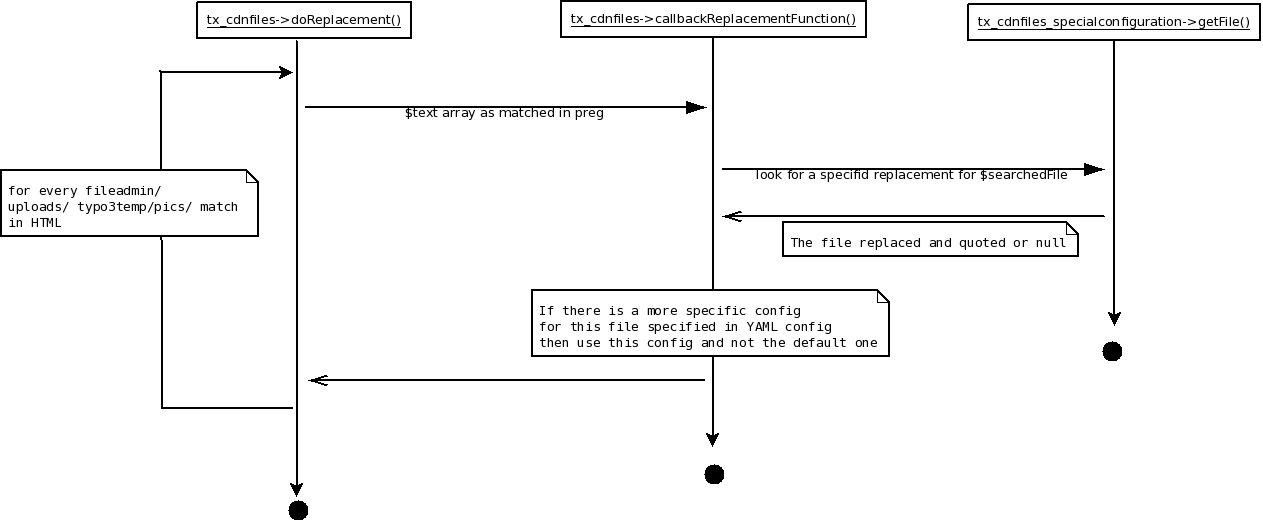
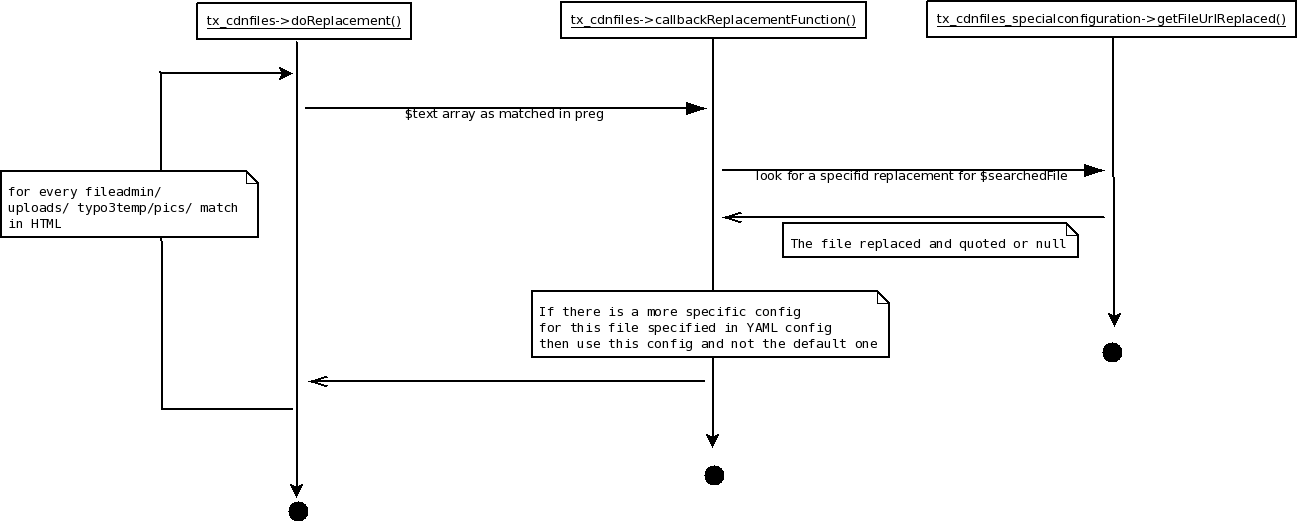
Refactoring round one. Code is more readable and extensible via interfaces Added new TODOs at code comments

diff --git a/class.tx_cdnfiles.php b/class.tx_cdnfiles.php
@@ -11,7 +11,7 @@ require_once t3lib_extMgm::extPath('cdnfiles').'class.tx_cdnfiles_specialconfigu
 class tx_cdnfiles {
 
     /** @var array holds the extension configuration */
-    private $extConfig = array();
+    private $extensionConfiguration = array();
 
     /** @var string with current replacement directory, cause
      * I dont know how to pass more arguments to the callback function and i dont want to call pcre functions twice
@@ -19,65 +19,68 @@ class tx_cdnfiles {
     private $currentDirectory ='';
 
     /**
-     * @var tx_cdnfiles_specialconfiguration this object reads the YAML configuration file and tests each file against it to look for any special configuration
+     * @var tx_cdnfiles_specialconfiguration_interface this object reads the YAML configuration file and tests each file against it to look for any special configuration
      */
     private $specialConfigurationObj = null;
 
     public function __construct(){
+        // TODO: override extension configuration from extension manager with template TSConfig if exists
         // global extension configuration is read the typo3conf/localconf.php and managed with the TYPO3 extension manager
-        $this->extConfig = unserialize(
+        $this->extensionConfiguration = unserialize(
             $GLOBALS['TYPO3_CONF_VARS']['EXT']['extConf']['cdnfiles']
         );
         // file with absolute path of the YAML file with advanced replacement configuration
-        $this->extConfig['advancedconfig_file'] = PATH_site.$this->extConfig['advancedconfig_file'];
+        $this->extensionConfiguration['advancedconfig_file'] = PATH_site.$this->extensionConfiguration['advancedconfig_file'];
 
+        // TODO: make this object plugable, which paramaters/initialization should it use
         // the object manager with advanced configuration. this object is responsible to read the YAML file and giving a original file
         // it returns an URL for this file if there is anyone
-        $this->specialConfigurationObj = t3lib_div::makeInstance("tx_cdnfiles_specialconfiguration",$this->extConfig['advancedconfig_file']);
+        $this->specialConfigurationObj = t3lib_div::makeInstance("tx_cdnfiles_specialconfiguration",$this->extensionConfiguration['advancedconfig_file']);
     }
 
     /**
      * Responsible of replacement inside the hook ['tslib/class.tslib_fe.php']
      * it takes a HTML string and returns the string with URLS replaced
      * 
-     * @param string $content HTML of the page, file references should be in quotes
+     * @param string $htmlContent HTML of the page, file references should be in quotes
      * @return string HTML with the replaced content
      */
-    public function doReplacement($content){
+    public function doReplacement($htmlContent){
 
         /**
          * Do I have to work with, fileadmin/ uploads/ typo3temp/pics?
          * each one could have its own config
          */
 
+        // TODO: avoid repeated code but it could lead to a less readable code
         // fileadmin/
-        if ($this->extConfig['replace_fileadmin_directory']){
+        if ($this->extensionConfiguration['replace_fileadmin_directory']){
             // $this->currentDirectory is used inside 'callbackReplacementFunction'
             $this->currentDirectory='fileadmin';
             // pattern to match the fileadmin directory
-            $pattern = $this->extConfig['fileadmin_regexp'];
+            $pattern = $this->extensionConfiguration['fileadmin_regexp'];
             //always testing case insensitive
             $pattern = '|"'.$pattern.'"|i';
-            $content = preg_replace_callback($pattern, array( &$this, 'callbackReplacementFunction'), $content);
+            $htmlContent = preg_replace_callback($pattern, array( &$this, 'callbackReplacementFunction'), $htmlContent);
         }
 
         // uploads/
-        if ($this->extConfig['replace_uploads_directory']){
+        if ($this->extensionConfiguration['replace_uploads_directory']){
             $this->currentDirectory='uploads';
-            $pattern = $this->extConfig['uploads_regexp'];
+            $pattern = $this->extensionConfiguration['uploads_regexp'];
             $pattern = '|"'.$pattern.'"|i';
-            $content = preg_replace_callback($pattern, array( &$this, 'callbackReplacementFunction'), $content);
+            $htmlContent = preg_replace_callback($pattern, array( &$this, 'callbackReplacementFunction'), $htmlContent);
         }
 
         // typo3temp/pics/
-        if ($this->extConfig['replace_typo3temppics_directory']){
+        if ($this->extensionConfiguration['replace_typo3temppics_directory']){
             $this->currentDirectory='typo3temppics';
-            $pattern = $this->extConfig['typo3temppics_regexp'];
+            $pattern = $this->extensionConfiguration['typo3temppics_regexp'];
             $pattern = '|"'.$pattern.'"|i';
-            $content = preg_replace_callback($pattern, array( &$this, 'callbackReplacementFunction'), $content);
+            $htmlContent = preg_replace_callback($pattern, array( &$this, 'callbackReplacementFunction'), $htmlContent);
         }
         
-        return $content;
+        return $htmlContent;
 
     }
 
@@ -85,65 +88,72 @@ class tx_cdnfiles {
      * This function is triggered for every PCRE match and it proccess the filereferences
      * Reponsible of replacement for just one file URL
      *
-     * @param array $text as matched in a PCRE regular expression
+     * @param array $matchedText as matched in a PCRE regular expression
      * @return string The file reference proccessed in quotes
      */
-    private function callbackReplacementFunction($text){
-        
+    private function callbackReplacementFunction($matchedText){
+            //TODO: add hook preReplacement
+
             // If you have a regular expression with () then use the first () variable
-            if(isset($text[1])){
-                $searchedFile = $text[1];
+            if(isset($matchedText[1])){
+                $searchedFile = $matchedText[1];
             }else{
-                $searchedFile = $text[0];
+                $searchedFile = $matchedText[0];
             }
 
+            // TODO: add hook
             //Look for a special configuration for this file
-            $proccessedFile = $this->specialConfigurationObj->getFile($searchedFile);
+            $fileWithUrlReplaced = $this->specialConfigurationObj->getFileUrlReplaced($searchedFile);
         
             /**
-             * If !$proccessedFile is because there isnt any special configuration for that file
+             * If !$fileWithUrlReplaced is because there isnt any special configuration for that file
+             * so going to default config at directory level
              */
-            if (!$proccessedFile){
+            if (!$fileWithUrlReplaced){
                 //If no have any special configuration just apply the common config
                 /// because I have $this->currentDirectory, I dont have to use a regular expression again to know in that directory i'm working
                 switch($this->currentDirectory){
                     case 'fileadmin':                       
-                        $proccessedFile = $this->extConfig['fileadmin_urlprefix'] . $searchedFile;
+                        $fileWithUrlReplaced = $this->extensionConfiguration['fileadmin_urlprefix'] . $searchedFile;
                         break;
                     case 'uploads':                       
-                        $proccessedFile = $this->extConfig['uploads_urlprefix'] . $searchedFile;
+                        $fileWithUrlReplaced = $this->extensionConfiguration['uploads_urlprefix'] . $searchedFile;
                         break;
                     case 'typo3temppics':                     
-                        $proccessedFile = $this->extConfig['typo3temppics_urlprefix'] . $searchedFile;
+                        $fileWithUrlReplaced = $this->extensionConfiguration['typo3temppics_urlprefix'] . $searchedFile;
                         break;
 
                 }
             }
 
             // at least you should get your original file, but you should never go into this configuration
-            if(!$proccessedFile){
-                $proccessedFile = $searchedFile;
+            if(!$fileWithUrlReplaced){
+                $fileWithUrlReplaced = $searchedFile;
             }
 
             /**
-             * $proccessedFile != $searchedFile is because you did something with the file
+             * $fileWithUrlReplaced != $searchedFile is because you did something with the file: you have replaced the file with a special config
              */
-            if($proccessedFile != $searchedFile){
+            // TODO: should I remove that directories in the URL even if if I have a special config for this file?
+            // TODO: testcase fileadmin/somefile.js replaced with http://server.mycdn.com/fileadmin/something.js
+            if($fileWithUrlReplaced != $searchedFile){
                 //should I remove the fileadmin/ uploads/ or typo3temp/ directory
-                if($this->extConfig['remove_fileadmin_directory']){
-                                $proccessedFile = str_replace('/fileadmin/', '/', $proccessedFile);
+                if($this->extensionConfiguration['remove_fileadmin_directory']){
+                                $fileWithUrlReplaced = str_replace('/fileadmin/', '/', $fileWithUrlReplaced);
                 }
-                if($this->extConfig['remove_uploads_directory']){
-                                $proccessedFile = str_replace('/uploads/', '/', $proccessedFile);
+                if($this->extensionConfiguration['remove_uploads_directory']){
+                                $fileWithUrlReplaced = str_replace('/uploads/', '/', $fileWithUrlReplaced);
                 }
-                if($this->extConfig['remove_typo3temp_directory']){
-                                $proccessedFile = str_replace('/typo3temp/', '/', $proccessedFile);
+                if($this->extensionConfiguration['remove_typo3temp_directory']){
+                                $fileWithUrlReplaced = str_replace('/typo3temp/', '/', $fileWithUrlReplaced);
                 }
 
             }
+            //TODO: add hook postReplacement
 
+            // TODO: ensure that the file is always returned with quotes
             //dont forget the quotes
-            return '"'.$proccessedFile.'"';
+            return '"'.$fileWithUrlReplaced.'"';
 
     }
     

diff --git a/class.tx_cdnfiles_specialconfiguration.php b/class.tx_cdnfiles_specialconfiguration.php
@@ -3,7 +3,7 @@
  * To change this template, choose Tools | Templates
  * and open the template in the editor.
  */
-require_once(PATH_t3lib . 'interfaces/interface.t3lib_singleton.php');
+require_once t3lib_extMgm::extPath('cdnfiles').'class.tx_cdnfiles_specialconfiguration_interface.php';
 require_once t3lib_extMgm::extPath('cdnfiles').'lib/sfYaml.php';
 
 /**
@@ -15,7 +15,7 @@ require_once t3lib_extMgm::extPath('cdnfiles').'lib/sfYaml.php';
  *
  * @author Fernando Arconada fernando.arconada@gmail.com
  */
-class tx_cdnfiles_specialconfiguration {
+class tx_cdnfiles_specialconfiguration implements tx_cdnfiles_specialconfiguration_interface {
 
     /**
      *
@@ -24,43 +24,59 @@ class tx_cdnfiles_specialconfiguration {
     private $config = array();
 
     /**
-     *
-     * @param string $configFile absulet path of the YAML file
+     * @param string $configFilePath absulet path of the YAML file
      */
-    public function __construct($configFile){
-        try{
-            $this->config = sfYaml::load($configFile);
-        }catch(InvalidArgumentException $e){
-            t3lib_div::devLog($e->getMessage(),"cdnfiles");
-        }
-
+    public function __construct($configFilePath){
+        $this->config = $this->loadYamlAsArray($configFilePath);
     }
 
     /**
+     * @param  $configFilePath string sets the configuration file in YAML format and loads it into the config
+     * @return void
+     */
+    public function setConfigFile($configFilePath) {
+        $this->config = $this->loadYamlAsArray($configFilePath);
+    }
+
+    /**
+     * converts a YAML file into array
+     * @param  $yamlFilePath
+     * @return array
+     */
+    private function loadYamlAsArray($yamlFilePath) {
+        $arrayResult = array();
+        try{
+            $arrayResult = sfYaml::load($yamlFilePath);
+        }catch(InvalidArgumentException $e){
+            t3lib_div::devLog($e->getMessage(),"cdnfiles");
+        }
+        return $arrayResult;
+    }
+    /**
      * Do I have any special config for this file?
-     * @param string $originalFile
+     * @param string $originalFileToBeReplaced
      * @return string|null if have a special config i should return the file refernce
      *  proccessed, If the file refernce proccessed is equal as filerefernce is
      *  because i have written in my config which that file should be proccessed
      *  the function returns null if has nothing about that file
      */
-    public function getFile($originalFile){
+    public function getFileUrlReplaced($originalFileToBeReplaced){
         //lets look in the files section
         /**
          * Files section has priority over patterns section because
          * patterns are more general than files
          * The order is important cause it works in short-circuit mode
          */
-        foreach ($this->config['files'] as $file => $fileConfig){
+        foreach ($this->config['files'] as $file => $fileReplacementConfiguration){
             //always testing case insensitive
-            if(preg_match("|".$file."|i", $originalFile)){
+            if(preg_match("|".$file."|i", $originalFileToBeReplaced)){
                 //There is a config for this file
-                if($fileConfig['replace']){
+                if($fileReplacementConfiguration['replace']){
                     //then i should have an URL
-                    return $fileConfig['cdn_url'];
+                    return $fileReplacementConfiguration['cdn_url'];
                 }else{
                     // please dont touch my file it shouldnt be replaced
-                    return $originalFile;
+                    return $originalFileToBeReplaced;
                 }
 
             }
@@ -68,12 +84,12 @@ class tx_cdnfiles_specialconfiguration {
 
 
         //lets look in the patterns section
-        foreach ($this->config['patterns'] as $pattern => $patternConfig){
-            if(preg_match("|".$pattern."|i", $originalFile)){
-                if($patternConfig['replace']){
-                    return $patternConfig['cdn_prefix'].$originalFile;
+        foreach ($this->config['patterns'] as $pattern => $patternReplacementConfiguration){
+            if(preg_match("|".$pattern."|i", $originalFileToBeReplaced)){
+                if($patternReplacementConfiguration['replace']){
+                    return $patternReplacementConfiguration['cdn_prefix'].$originalFileToBeReplaced;
                 }else{
-                    return $originalFile;
+                    return $originalFileToBeReplaced;
                 }
 
             }

diff --git a/tests/tx_cdnfiles_cdnfiles_testcase.php b/tests/tx_cdnfiles_cdnfiles_testcase.php
@@ -17,7 +17,7 @@ files:
     replace: false
  */
 /**
- * [extConfig:tx_cdnfiles:private] => Array
+ * [extensionConfiguration:tx_cdnfiles:private] => Array
         (
             [replace_fileadmin_directory] => 1
             [fileadmin_urlprefix] => http://d3n13n30hxhvxs.cloudfront.net/
@@ -48,7 +48,7 @@ class tx_cdnfiles_cdnfiles_testcase extends tx_phpunit_testcase {
         $this->cdnfilesObj = t3lib_div::makeInstance('tx_cdnfiles');
 
         //configure the object accessing private properties
-        $property = new ReflectionProperty($this->cdnfilesObj,'extConfig');
+        $property = new ReflectionProperty($this->cdnfilesObj,'extensionConfiguration');
         $property->setAccessible(TRUE);
         $config['replace_fileadmin_directory'] = '1';
         $config['fileadmin_urlprefix'] = 'http://d3n13n30hxhvxs.cloudfront.net/';
@@ -102,7 +102,7 @@ class tx_cdnfiles_cdnfiles_testcase extends tx_phpunit_testcase {
      * @dataProvider providerContent
      */
     public function test_doReplacement($replaceFileadmin,$replaceUploads,$replaceTypo3temppics,$content,$result){
-        $property = new ReflectionProperty($this->cdnfilesObj,'extConfig');
+        $property = new ReflectionProperty($this->cdnfilesObj,'extensionConfiguration');
         $property->setAccessible(TRUE);
         $config = $property->getValue($this->cdnfilesObj);
         $config['replace_fileadmin_directory'] = $replaceFileadmin;

diff --git a/class.tx_cdnfiles_specialconfiguration_interface.php b/class.tx_cdnfiles_specialconfiguration_interface.php
@@ -1,0 +1,11 @@
+<?php
+/**
+ * @author Fernando Arconada fernando.arconada@gmail.com
+ * Date: 18/05/11
+ * Time: 11:40
+ */
+
+ 
+interface tx_cdnfiles_specialconfiguration_interface {
+    public function getFileUrlReplaced($originalFileToBeReplaced);
+}
